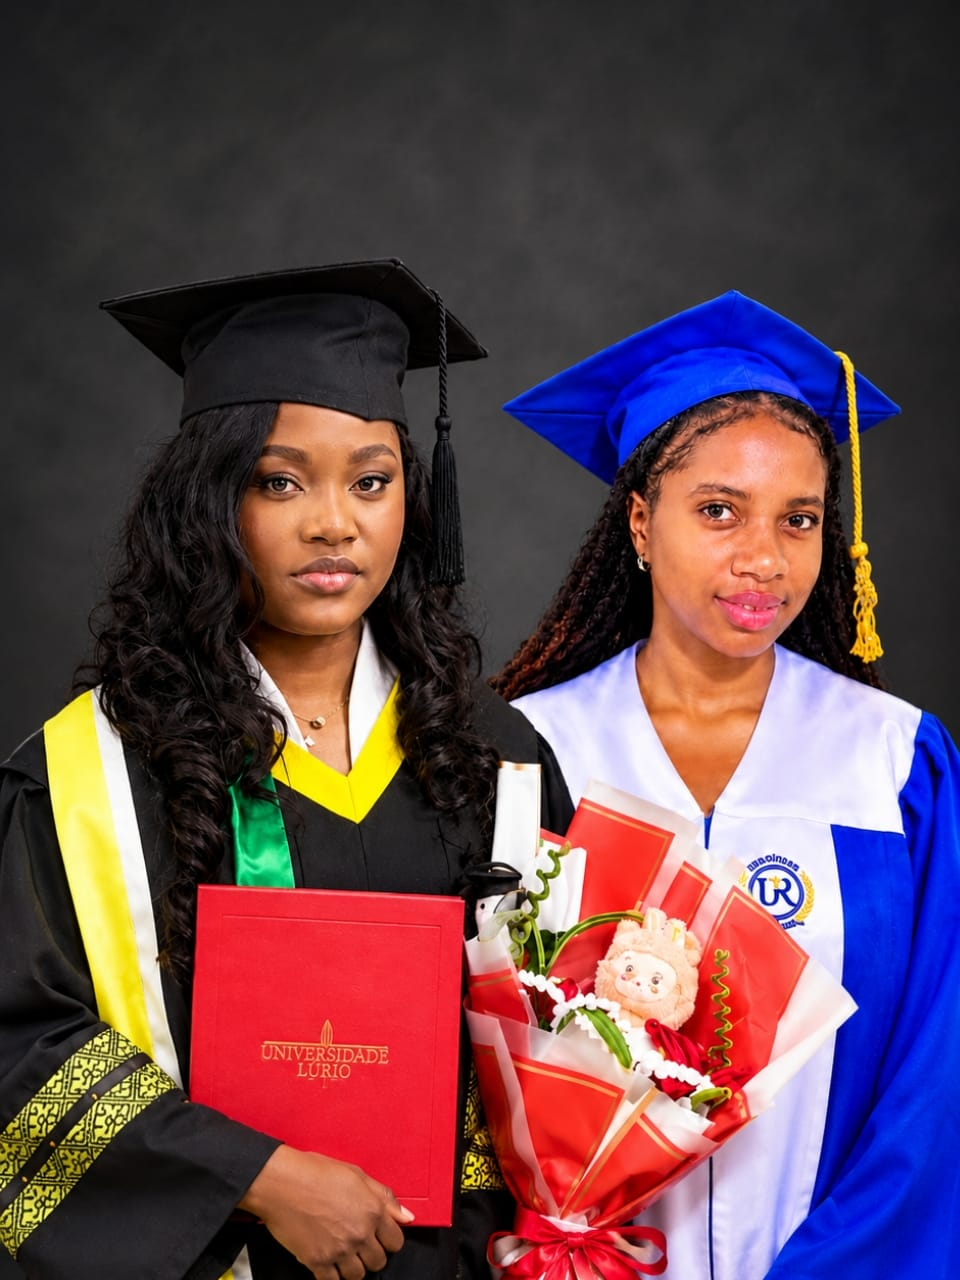
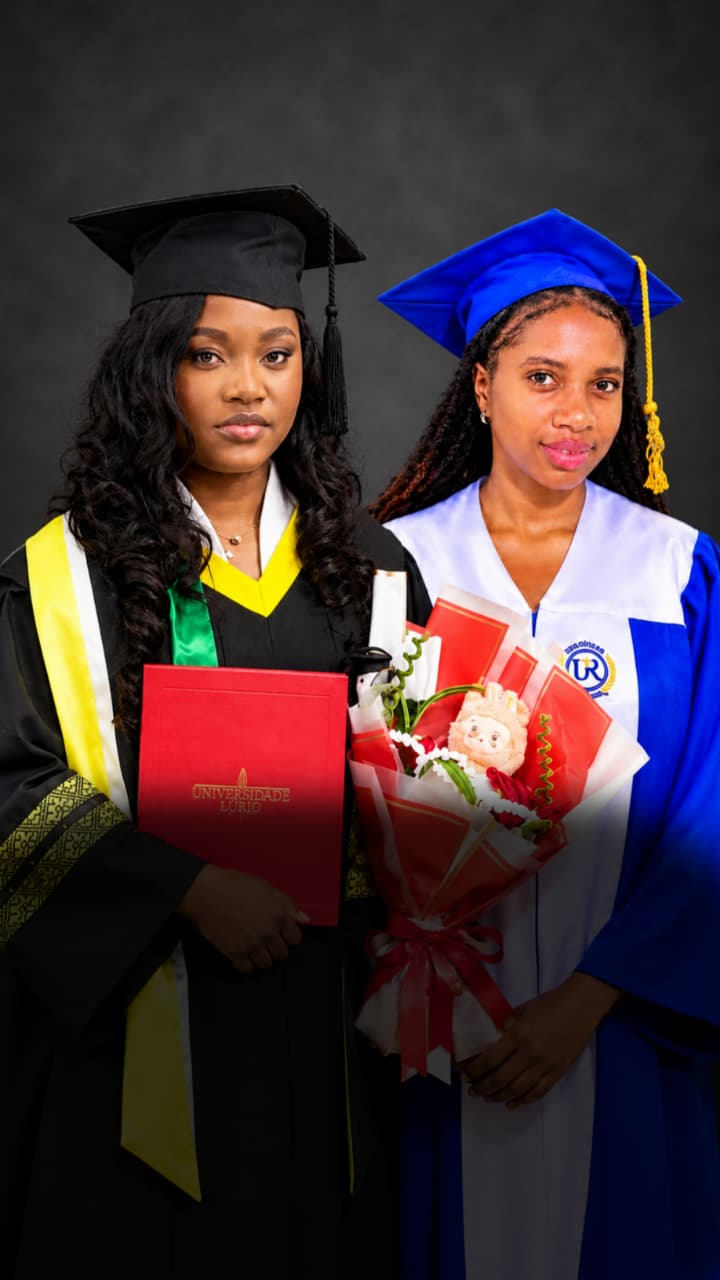
mm

diff --git a/src/routes/tela.tsx b/src/routes/tela.tsx
@@ -130,11 +130,11 @@ function TelaStage({
     return connectScreenWebSocket({
       onToast: (t) => enqueueRef.current(t),
       onState: (next) =>
-        setScreenState((prev) => ({
-          mode: next.mode,
-          active_media: next.active_media,
-          live_slides: next.live_slides ?? prev?.live_slides ?? [],
-        })),
+        setScreenState({
+          mode: next.mode ?? "live",
+          active_media: next.active_media ?? null,
+          live_slides: next.live_slides ?? [],
+        }),
       onOpen: () => setWsLive(true),
       onClose: () => setWsLive(false),
     });
